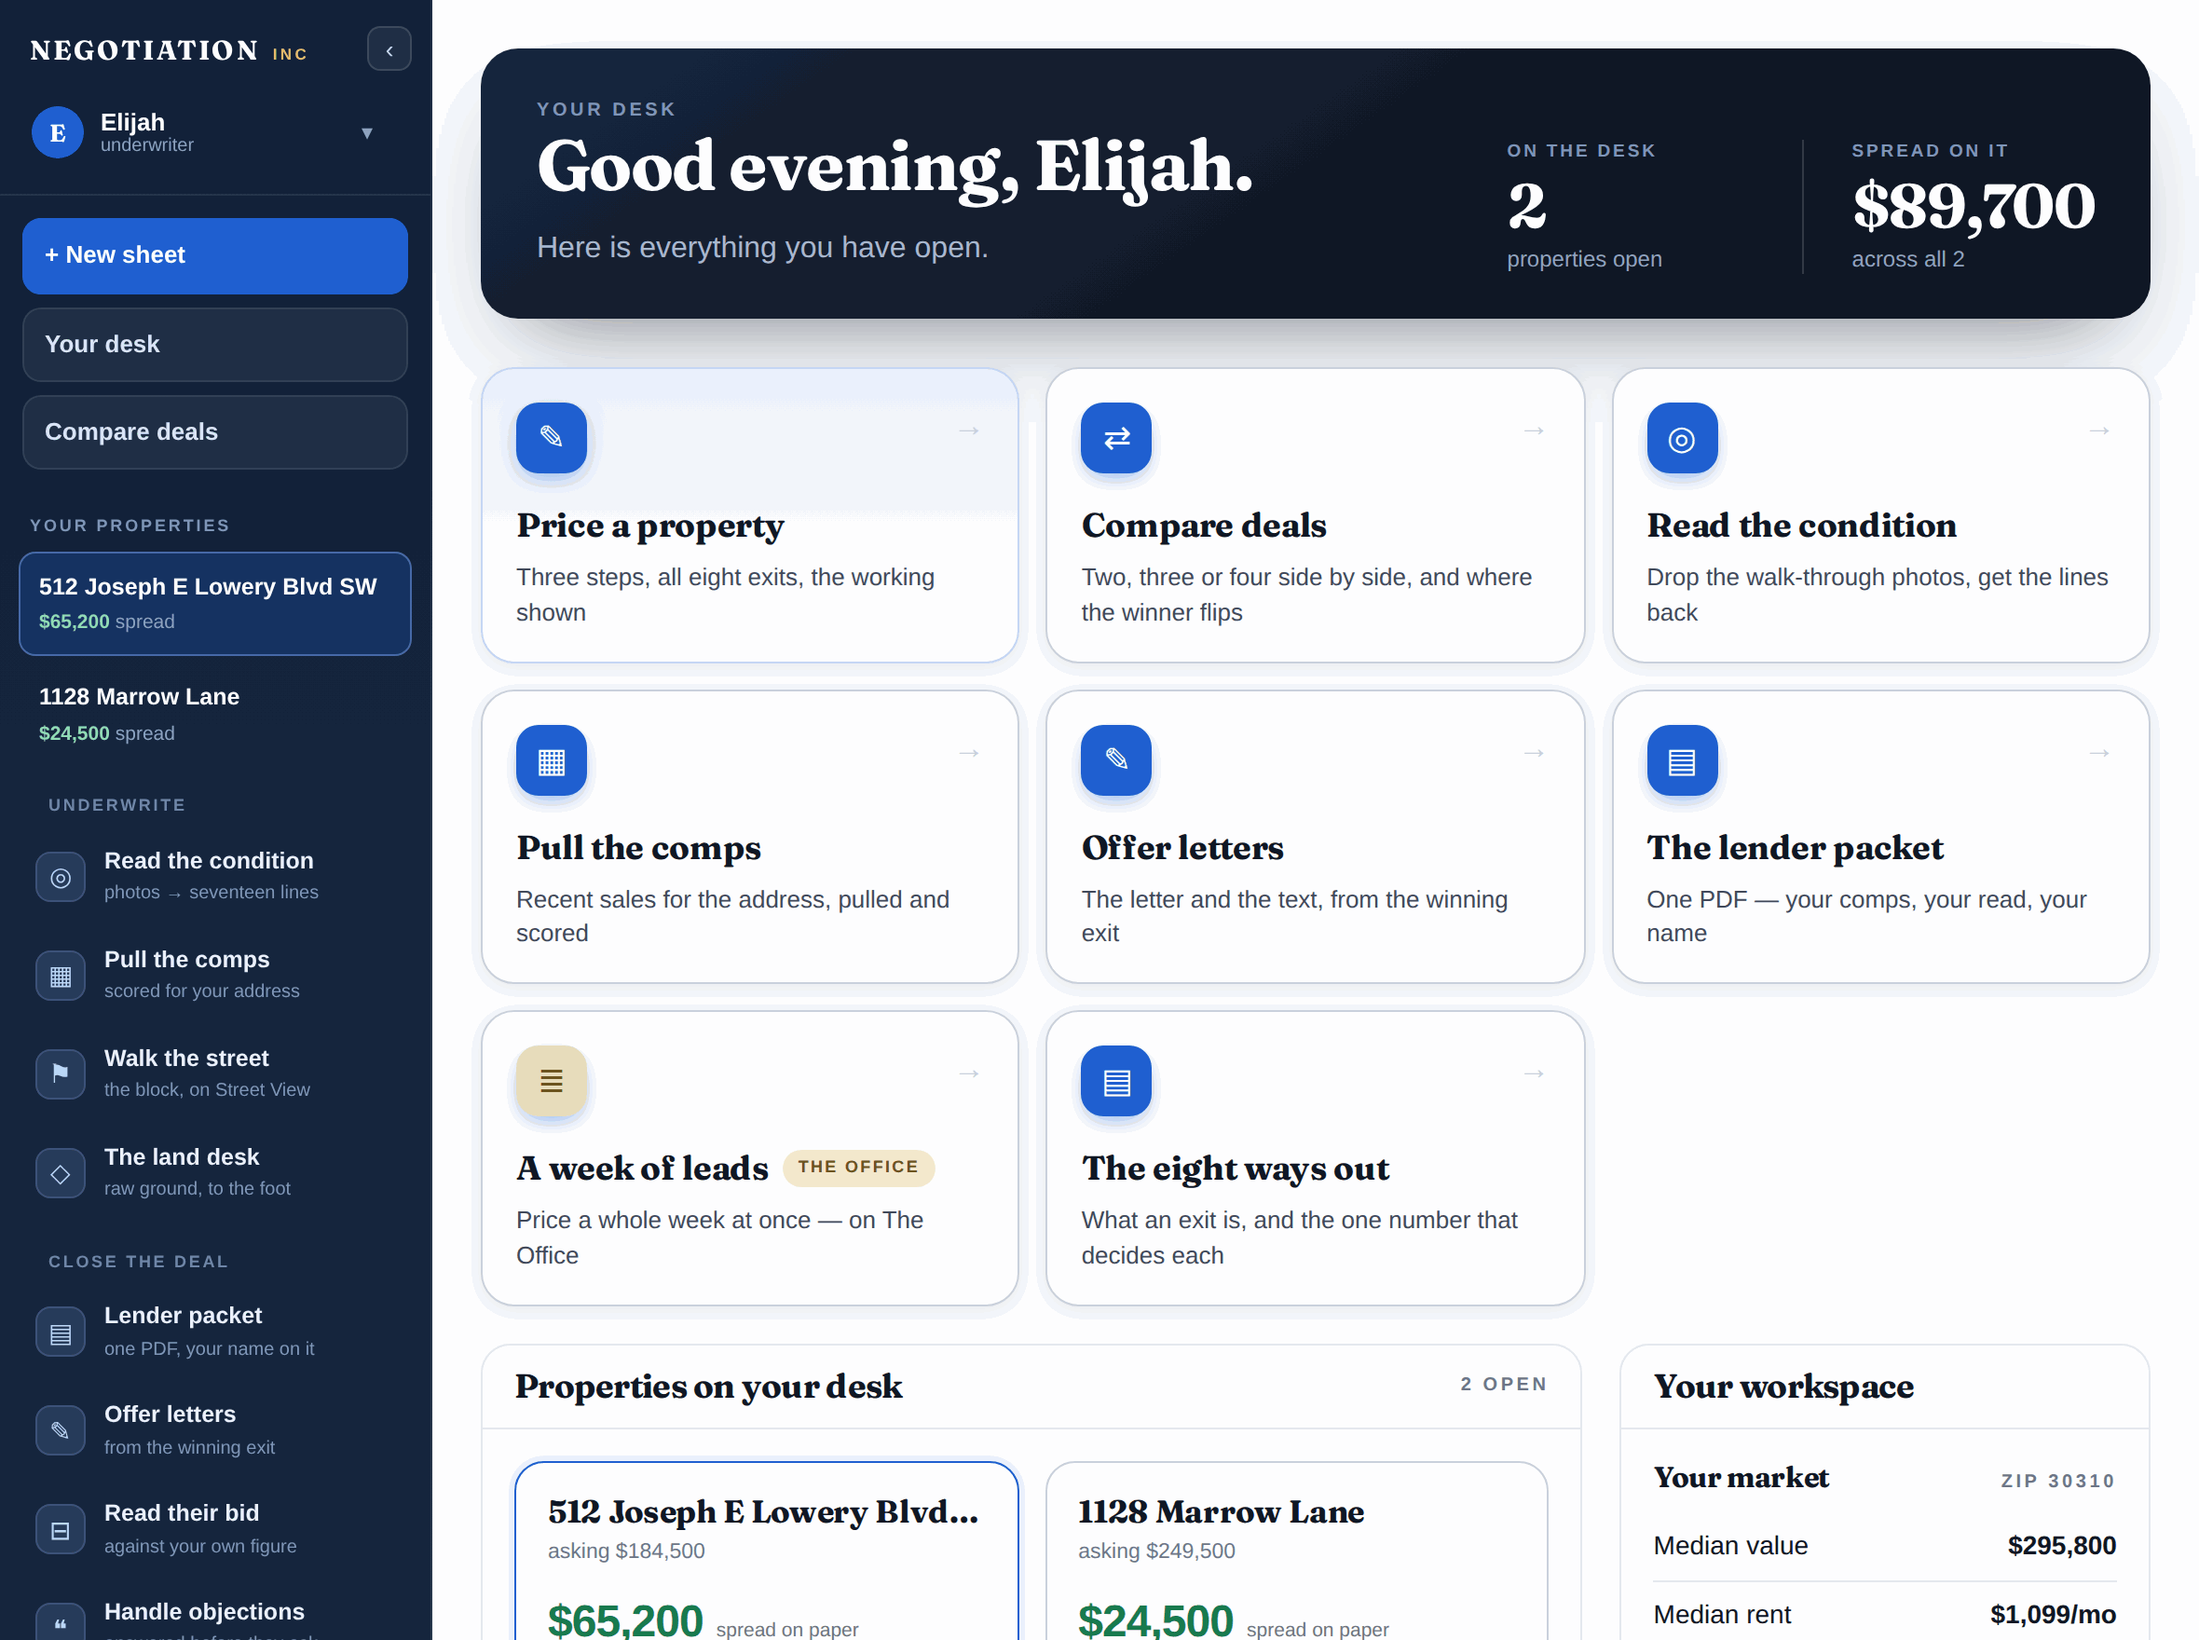
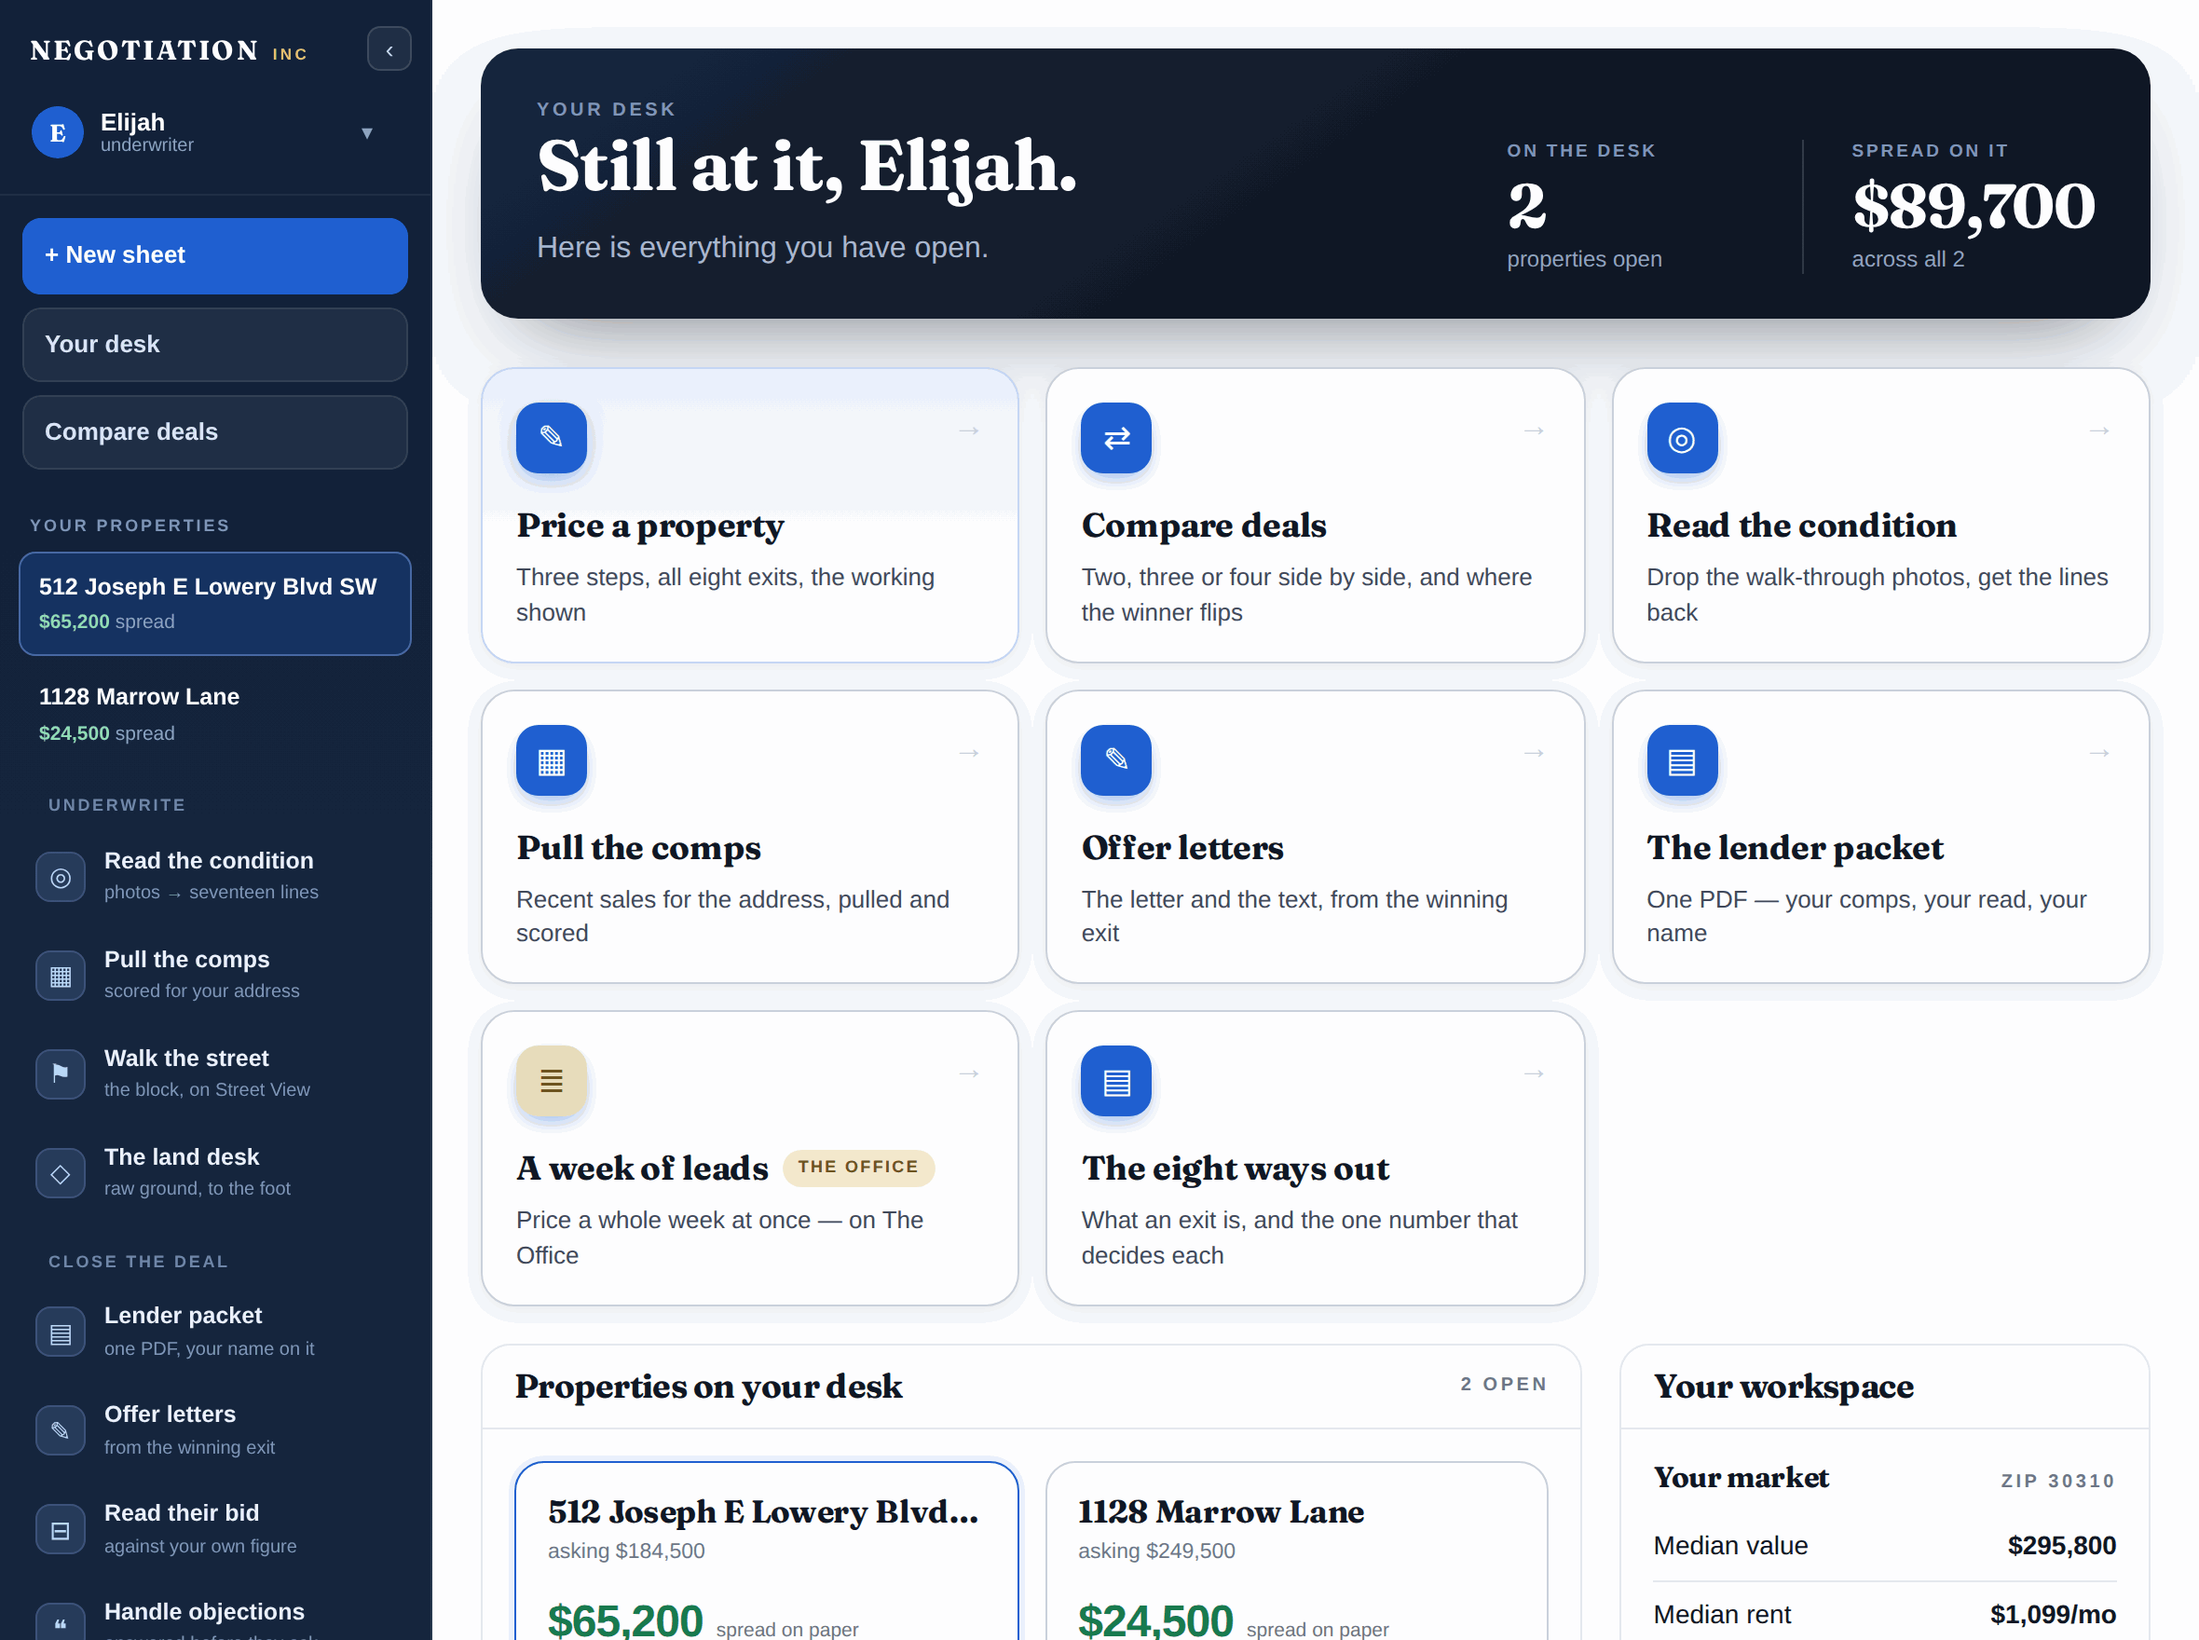
batch 69: the rail is a shortlist, not an archive
Every property rendered in the dashboard rail, so an account with thirty
sheets got a sidebar that was mostly sidebar — the arsenal of instruments
pushed below the fold by the very list it exists to serve. The rail shows
seven now: the most recently touched, the active sheet always among them, in
the stable order the person knows. Below them, one dashed row says the whole
truth — "All 30 properties · 23 more than the rail shows" — and lands on the
properties panel, where every sheet has always lived. The same rule the
forty-sheet merge cap learned last batch: a cap that hides work must say so,
with the count, where the person is looking. Three harnesses green.

Changed region(s): [[0.2475, 0.0625, 0.5877, 0.125]]

diff --git a/office.html b/office.html
@@ -198,6 +198,9 @@ body.railtight .rn-lnk em{display:none}
 .rn-p.on{background:rgba(31,95,208,.26);border-color:rgba(143,180,255,.42)}
 .rn-p .t{font-size:12.5px;font-weight:650;color:#fff;overflow:hidden;text-overflow:ellipsis;white-space:nowrap}
 .rn-p .s{font-size:10.5px;color:#8ba3c4;margin-top:1px;font-variant-numeric:tabular-nums}
+.rn-allp{border-style:dashed;border-color:rgba(255,255,255,.18)}
+.rn-allp .t{color:#c9d8ee}
+.rn-allp:hover{border-style:solid}
 /* ── A NEGATIVE NUMBER IS NEVER THE AFFIRMATIVE COLOUR ─────────────────────
    This was mint green whatever the sign, so a property whose spread is
    MINUS $102,000 — the one demo built specifically to be the deal you walk
@@ -1704,12 +1707,34 @@ function renderShell(a, props, active, nameOf, spreadOf, filledOf, onPlan, left)
      <span class="ti" aria-hidden="true">${glyph}</span>
      <span class="tl"><b>${esc(name)}</b><span>${esc(desc)}</span></span>${chip}</a>`;
  }).join('');
- const rows = props.map((p,i) => {
+ /* ── THE RAIL IS A SHORTLIST, NOT AN ARCHIVE ─────────────────────────────
+    Every property used to render here, so an account with thirty sheets got
+    a sidebar that was mostly sidebar — the arsenal pushed below the fold by
+    the very list it exists to serve. Seven now: the most recently touched,
+    with the active sheet always among them, in the stable order the person
+    knows. The rest are one press away in the properties panel, and the row
+    that takes you there SAYS THE COUNT, so nothing reads as missing — the
+    same rule the forty-sheet merge cap learned a batch ago. */
+ const MAXR = 7;
+ let show = props.map((_, i) => i);
+ if (props.length > MAXR){
+   show.sort((a, b) => (+(props[b].updated || 0)) - (+(props[a].updated || 0)));
+   show = show.slice(0, MAXR);
+   if (!show.includes(active)) show[MAXR - 1] = active;
+   show.sort((a, b) => a - b);
+ }
+ const rows = show.map(i => {
+   const p = props[i];
    const sp = spreadOf(p), n = filledOf(p).length;
    return `<a class="rn-p${i===active?' on':''}" href="desk.html#open=${i}">
      <div class="t">${smp(p)}${esc(nameOf(p,i))}</div>
      <div class="s">${sp!==null?`<b class="${sp<0?'dn':''}">${money(sp)}</b> spread`:(n?`${n} figure${n>1?'s':''}`:'empty')}</div></a>`;
- }).join('');
+ }).join('')
+ + (props.length > MAXR
+    ? `<a class="rn-p rn-allp" href="#props" title="Every property, on the desk below">
+        <div class="t">All ${props.length} properties</div>
+        <div class="s">${props.length - MAXR} more than the rail shows &rarr;</div></a>`
+    : '');
 
  const html = `
   <div class="rn-top">
